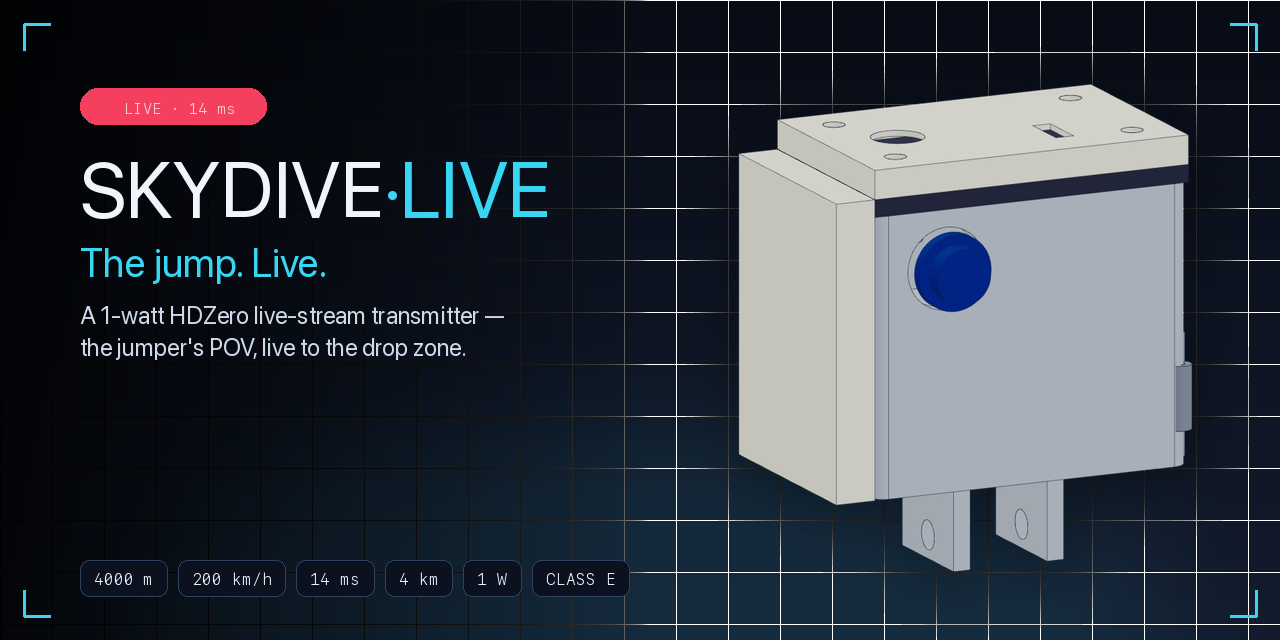
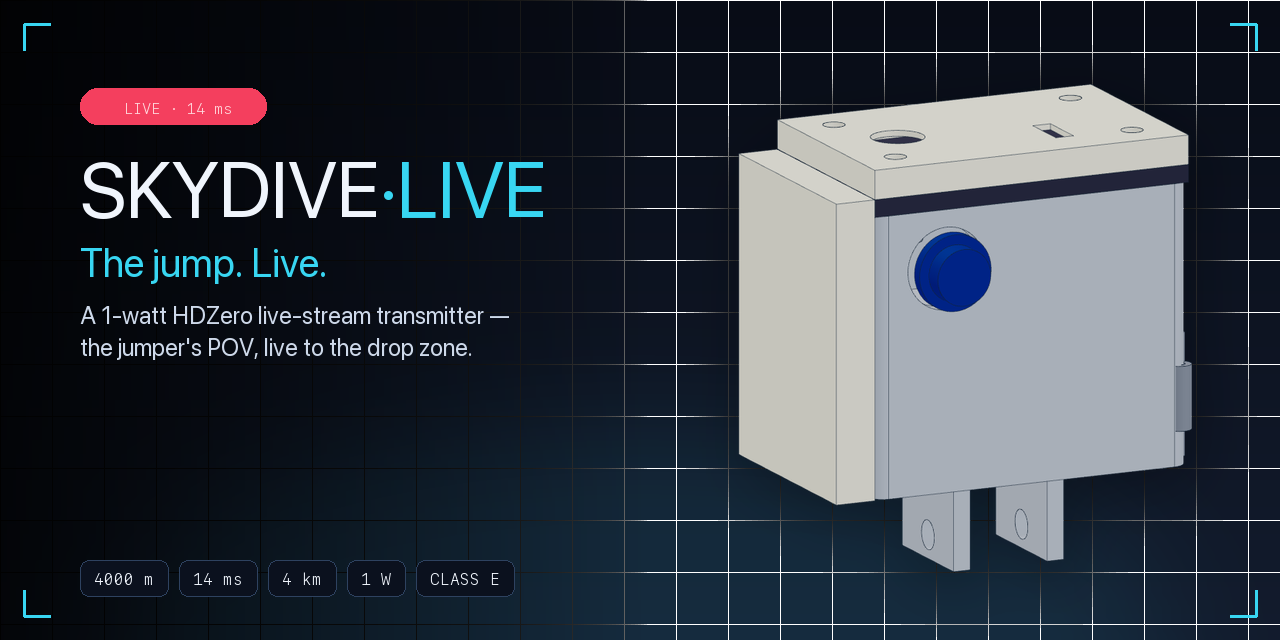
Smooth lens-forward turntable, 'dot → live' marquee illustration, remove 200 km/h, non-skydiver clarity
- New animation: buttery 25fps ping-pong turntable (lens always forward, solid dark bg) replaces the laggy, back-facing assembly.gif
- New marquee illustration 'dot_to_live.svg' (self-animating): what the ground sees (a dot) vs what SkyDive·Live shows (the freefall POV, same moment) — the whole thesis in one glance, gets non-skydivers instantly. In README top + a new Pages 'idea in one glance' band
- Removed '200 km/h' everywhere (README, hero/og image, live site chip + windtag, both decks) — freefliers go faster; speed claim dropped
- Accessibility: glossed 'head-down (falling head-first)' in README + site; plain-language idea band
- Hero/og regenerated without the speed chip

diff --git a/docs/index.html b/docs/index.html
@@ -256,7 +256,6 @@ section + section{border-top:1px solid rgba(255,255,255,.055)}
     <p class="lede">Real-time video from freefall — the jumper's POV, streamed live from ~4 km up to a receiver at the drop zone, onto the big TV in the waiting area. Own radio link, no internet, ~14 ms latency, Class-E.</p>
     <div class="chips" role="list" aria-label="Key telemetry">
       <span class="chip" role="listitem"><b>4000 m</b></span>
-      <span class="chip" role="listitem"><b>200 km/h</b></span>
       <span class="chip" role="listitem"><b>14 ms</b></span>
       <span class="chip" role="listitem"><b>4 km</b></span>
       <span class="chip" role="listitem"><b>1 W</b></span>
@@ -269,6 +268,18 @@ section + section{border-top:1px solid rgba(255,255,255,.055)}
     </div>
   </div>
 </header>
+
+<!-- ========== 1b. THE IDEA IN ONE GLANCE ========== -->
+<section id="idea">
+  <div class="wrap">
+    <div class="head">
+      <div class="eyebrow">The idea in one glance</div>
+      <h2>A dot — or the whole jump.</h2>
+      <p>Today the ground sees a speck in the sky. SkyDive·Live puts the jumper's own view on the screen — the same moment, ~14 ms later. No skydiving knowledge required.</p>
+    </div>
+    <img src="dot_to_live.svg" alt="Left: what the ground sees today — a dot in the sky. Right: what SkyDive·Live shows — the freefall POV live on a monitor, same moment." style="width:100%;border-radius:16px;border:1px solid rgba(255,255,255,.08);display:block">
+  </div>
+</section>
 
 <!-- ========== 2. INTERACTIVE 3D ========== -->
 <section id="model">
@@ -315,14 +326,14 @@ section + section{border-top:1px solid rgba(255,255,255,.055)}
     <div class="head">
       <div class="eyebrow">Play the jump</div>
       <h2>A body is a shadow.</h2>
-      <p>Spin the jumper head-down. Watch one antenna drop. Switch on the second — the image holds.</p>
+      <p>Spin the jumper head-down (head-first) and his own body blocks the antenna. Watch one antenna drop. Switch on the second — the image holds.</p>
     </div>
 
     <div class="demo">
       <!-- LEFT: stage -->
       <div class="stage" id="stage">
         <div class="poselabel" id="poseLabel">BELLY</div>
-        <div class="windtag">4000 m · 200 km/h</div>
+        <div class="windtag">4000 m · FREEFALL</div>
         <svg viewBox="0 0 400 400" id="svg" aria-label="Skydiver with two antennas streaming to a ground station">
           <defs>
             <radialGradient id="grnd" cx="50%" cy="100%" r="60%"><stop offset="0" stop-color="rgba(34,211,238,.18)"/><stop offset="1" stop-color="transparent"/></radialGradient>

diff --git a/decks/pitch_DE.html b/decks/pitch_DE.html
@@ -282,7 +282,7 @@ h3{font-size:var(--d3);line-height:1.1;font-weight:700;letter-spacing:-.02em}
         <div class="co-hud">
           <span class="live"><b>●</b>&nbsp;LIVE · 14 ms</span>
           <span class="alt" id="coAlt2">4000 m</span>
-          <span class="spd">200 km/h ↓</span>
+          <span class="spd">FREIFALL ↓</span>
           <div class="retic"><i class="tl"></i><i class="tr"></i><i class="bl"></i><i class="br"></i></div>
         </div>
       </div>
@@ -457,7 +457,7 @@ h3{font-size:var(--d3);line-height:1.1;font-weight:700;letter-spacing:-.02em}
 <section class="slide center" data-id="kuehl"><div class="wrap">
   <div class="eyebrow v" style="--i:0">Selbstdenkende Kühlung</div>
   <h2 class="v" style="--i:1">Der Lüfter weiß, <span class="cy">wann</span>.</h2>
-  <p class="body v" style="--i:2;text-align:center;max-width:60ch;margin-top:14px">Sensor liest die Chip-Temperatur. Der Lüfter springt <span class="cy">nur an, wenn es heiß wird</span> — im Freifall reicht der 200-km/h-Fahrtwind; am Boden läuft er nach, bis alles kühl ist.</p>
+  <p class="body v" style="--i:2;text-align:center;max-width:60ch;margin-top:14px">Sensor liest die Chip-Temperatur. Der Lüfter springt <span class="cy">nur an, wenn es heiß wird</span> — im Freifall reicht der Fahrtwind; am Boden läuft er nach, bis alles kühl ist.</p>
   <div class="v" style="--i:2;display:flex;gap:22px;justify-content:center;margin-top:10px;font-size:var(--small);color:var(--muted)">
     <span><i style="display:inline-block;width:16px;height:3px;background:#ff8a4c;vertical-align:middle;margin-right:7px;border-radius:2px"></i>Chip-Temperatur</span>
     <span><i style="display:inline-block;width:16px;height:10px;background:#23c9ef;opacity:.8;vertical-align:middle;margin-right:7px;border-radius:2px"></i>Lüfter läuft</span>
@@ -511,7 +511,7 @@ h3{font-size:var(--d3);line-height:1.1;font-weight:700;letter-spacing:-.02em}
       <div class="feat"><div class="k">2 · Raus</div><div class="p">Tray an der Lasche ziehen — der leere gleitet heraus.</div></div>
       <div class="feat"><div class="k">3 · Rein</div><div class="p">Geladenen Tray einschieben, Klappe zu — rastet positiv ein.</div></div>
     </div>
-    <p class="body v" style="--i:3;max-width:48ch">Wie ein GoPro-Akkufach — aber <span class="cy">freifall-sicher</span>: Schnapp-Riegel + Sprung-Sicherung. Klappe <span class="cy">seitlich, aus dem Staudruck</span> — 200 km/h halten. Mehrere Trays laden parallel.</p>
+    <p class="body v" style="--i:3;max-width:48ch">Wie ein GoPro-Akkufach — aber <span class="cy">freifall-sicher</span>: Schnapp-Riegel + Sprung-Sicherung. Klappe <span class="cy">seitlich, aus dem Staudruck</span> — dem Fahrtwind standhalten. Mehrere Trays laden parallel.</p>
   </div>
 </div></section>
 
@@ -806,7 +806,7 @@ RX-Empfindlichkeit (HDZero) ≈ −90 dBm   →   Marge ≈ <span class="res">+9
   <div class="appx v" style="--i:2">
     <p>Zwei Kühlpfade — situativ, nicht nach Timer:</p>
     <div class="eq">FREIFALL (primär): NACA-Flush-Einlass vorn → Plenum → VTX-Heatsink → Auslass hinten
-Ram-Air bei ~200 km/h: ~99 % Druckrückgewinn, kein Strom nötig.</div>
+Ram-Air bei im Freifall: ~99 % Druckrückgewinn, kein Strom nötig.</div>
     <div class="eq">BODEN / POST-RUN: 25-mm-Lüfter (Sunon, 3,5 CFM) auf den Heatsink, ATtiny-geregelt
 Ein-/Auslass räumlich getrennt   ⇒   kein Kurzschluss, echter Durchzug.</div>
     <p>Akku durch die <b>Hitzewand</b> von der VTX-Zone entkoppelt (LiPo &lt; 45 °C). Belüftet, nicht versiegelt: <b>GORE-Membran + Drain</b> gegen Kondensat (4000 m / Temperatursprung).</p>

diff --git a/decks/pitch_EN.html b/decks/pitch_EN.html
@@ -275,7 +275,7 @@ h3{font-size:var(--d3);line-height:1.1;font-weight:700;letter-spacing:-.02em}
         <div class="co-hud">
           <span class="live"><b>●</b>&nbsp;LIVE · 14 ms</span>
           <span class="alt" id="coAlt2">4000 m</span>
-          <span class="spd">200 km/h ↓</span>
+          <span class="spd">FREEFALL ↓</span>
           <div class="retic"><i class="tl"></i><i class="tr"></i><i class="bl"></i><i class="br"></i></div>
         </div>
       </div>
@@ -450,7 +450,7 @@ h3{font-size:var(--d3);line-height:1.1;font-weight:700;letter-spacing:-.02em}
 <section class="slide center" data-id="kuehl"><div class="wrap">
   <div class="eyebrow v" style="--i:0">Self-thinking cooling</div>
   <h2 class="v" style="--i:1">The fan knows <span class="cy">when</span>.</h2>
-  <p class="body v" style="--i:2;text-align:center;max-width:60ch;margin-top:14px">The sensor reads chip temperature. The fan kicks in <span class="cy">only when it gets hot</span> — in freefall the 200 km/h airflow handles it; on the ground it runs on until everything has cooled.</p>
+  <p class="body v" style="--i:2;text-align:center;max-width:60ch;margin-top:14px">The sensor reads chip temperature. The fan kicks in <span class="cy">only when it gets hot</span> — in freefall the airflow handles it; on the ground it runs on until everything has cooled.</p>
   <div class="v" style="--i:2;display:flex;gap:22px;justify-content:center;margin-top:10px;font-size:var(--small);color:var(--muted)">
     <span><i style="display:inline-block;width:16px;height:3px;background:#ff8a4c;vertical-align:middle;margin-right:7px;border-radius:2px"></i>Chip temperature</span>
     <span><i style="display:inline-block;width:16px;height:10px;background:#23c9ef;opacity:.8;vertical-align:middle;margin-right:7px;border-radius:2px"></i>Fan running</span>
@@ -499,7 +499,7 @@ h3{font-size:var(--d3);line-height:1.1;font-weight:700;letter-spacing:-.02em}
       <div class="feat"><div class="k">2 · Out</div><div class="p">Pull the tray by its tab — the empty one slides out.</div></div>
       <div class="feat"><div class="k">3 · In</div><div class="p">Slide in a charged tray, close the door — it latches positively.</div></div>
     </div>
-    <p class="body v" style="--i:3;max-width:48ch">Like a GoPro battery door — but <span class="cy">freefall-safe</span>: snap latch + jump lock. Door <span class="cy">on the side, out of ram pressure</span> — holds at 200 km/h. Charge several trays in parallel.</p>
+    <p class="body v" style="--i:3;max-width:48ch">Like a GoPro battery door — but <span class="cy">freefall-safe</span>: snap latch + jump lock. Door <span class="cy">on the side, out of ram pressure</span> — holds against the ram pressure. Charge several trays in parallel.</p>
   </div>
 </div></section>
 
@@ -793,7 +793,7 @@ RX sensitivity (HDZero) ≈ −90 dBm   →   margin ≈ <span class="res">+9 dB
   <div class="appx v" style="--i:2">
     <p>Two cooling paths — situational, not on a timer:</p>
     <div class="eq">FREEFALL (primary): NACA flush inlet front → plenum → VTX heatsink → outlet rear
-Ram-air at ~200 km/h: ~99 % pressure recovery, no power needed.</div>
+Ram-air at in freefall: ~99 % pressure recovery, no power needed.</div>
     <div class="eq">GROUND / POST-RUN: 25 mm fan (Sunon, 3.5 CFM) ducted onto the heatsink, ATtiny-controlled
 Inlet and outlet spatially separated   ⇒   no short-circuit, real through-flow.</div>
     <p>Battery decoupled from the VTX zone by the <b>heat wall</b> (LiPo &lt; 45 °C). Vented, not sealed: <b>GORE membrane + drain</b> against condensation (4000 m / temperature swing).</p>

diff --git a/README.md b/README.md
@@ -18,6 +18,10 @@
 
 ## What if the whole drop zone could watch — live?
 
+<div align="center">
+<img src="renders/dot_to_live.svg" alt="Left: what the ground sees today — just a dot in the sky, hunted by a reticle. Right: what SkyDive·Live shows — the freefall POV live on a monitor, same moment, 14 ms." width="100%">
+</div>
+
 Today, the ground sees only **a dot in the sky**. Spectators, the waiting area, your own team — they follow the jump with the naked eye, and the footage only arrives *after* landing. The moment itself stays invisible.
 
 **SkyDive·Live** puts the jump on the screen **as it happens**. A helmet-mounted transmitter the size of an action cam sends a digital HDZero picture from ~4 km up to a receiver at the landing zone — straight onto the big TV in the waiting area. Its own radio link, no internet, ~14 ms latency. Not a recording. **The present tense.**
@@ -25,11 +29,6 @@ Today, the ground sees only **a dot in the sky**. Spectators, the waiting area, 
 ```
 Camera (MIPI) → 1 W VTX → U.FL → antenna(s) → ~4 km of air → ground antenna array → diversity RX → HDMI → monitor / public-viewing TV
 ```
-
-| | the jumper sees | the ground sees |
-|---|---|---|
-| **before** | everything | a dot |
-| **with SkyDive·Live** | everything | **everything — live, on the big screen** |
 
 ---
 
@@ -43,11 +42,11 @@ Hundreds of iterations distilled into **two purpose-built designs** — a proven
 
 ### ① Gen 1 — MK2 · *The Foundation*
 
-The complete printed system, and the proof the concept holds together. **Self-thinking cooling**: a sensor reads the chip temperature and the fan runs *only when it's hot* — in freefall the 200 km/h ram-air does the work; on the ground it runs on until everything is cool. GoPro form factor, tool-free battery swap, real off-the-shelf RF parts.
+The complete printed system, and the proof the concept holds together. **Self-thinking cooling**: a sensor reads the chip temperature and the fan runs *only when it's hot* — in freefall the ram-air does the work; on the ground it runs on until everything is cool. GoPro form factor, tool-free battery swap, real off-the-shelf RF parts.
 
 ### ② Gen 2 — v5 · *Never lose the image*
 
-**A body is a shadow.** Belly-down, the antenna points cleanly at the ground. Go **head-down** and the jumper's own body slides between transmitter and ground — a single antenna tears off, right at the most spectacular moment. So Gen 2 carries **two**: a patch that looks down, a dipole up top, and an RF switch that picks the better one in real time. Both sit **flush** in the shell — screwed in, no stuck-on bump, no snag risk.
+**A body is a shadow.** Belly-down, the antenna points cleanly at the ground. Go **head-down** (falling head-first) and the jumper's own body slides between transmitter and ground — a single antenna tears off, right at the most spectacular moment. So Gen 2 carries **two**: a patch that looks down, a dipole up top, and an RF switch that picks the better one in real time. Both sit **flush** in the shell — screwed in, no stuck-on bump, no snag risk.
 
 > 🛰️ **Feel it yourself** — the interactive [dual-antenna demo](https://schoentom.github.io/skydive-live/): rotate the jumper head-down, watch the single antenna drop to *"NO SIGNAL"*, then switch on the second and watch the link hold.
 
@@ -92,7 +91,7 @@ This is not a hobby gamble. Every critical path is calculated, and **honestly sp
 
 <div align="center">
 <img src="renders/exploded.png" alt="Exploded view of the sender" width="46%">
-<img src="renders/assembly.gif" alt="Assembly animation of the sender" width="46%">
+<img src="renders/sender_turn.gif" alt="The finished sender turning — lens to the viewer" width="46%">
 </div>
 
 **① 3D-print** (verified watertight STLs) → **② prep components** → **③ assembly stack** (antenna → VTX flat → camera → cover) → **④ wiring & power** (MOSFET fan control, conformal coating) → **⑤ fit tests A–F**. Full step-by-step in [`BUILD.md`](BUILD.md).